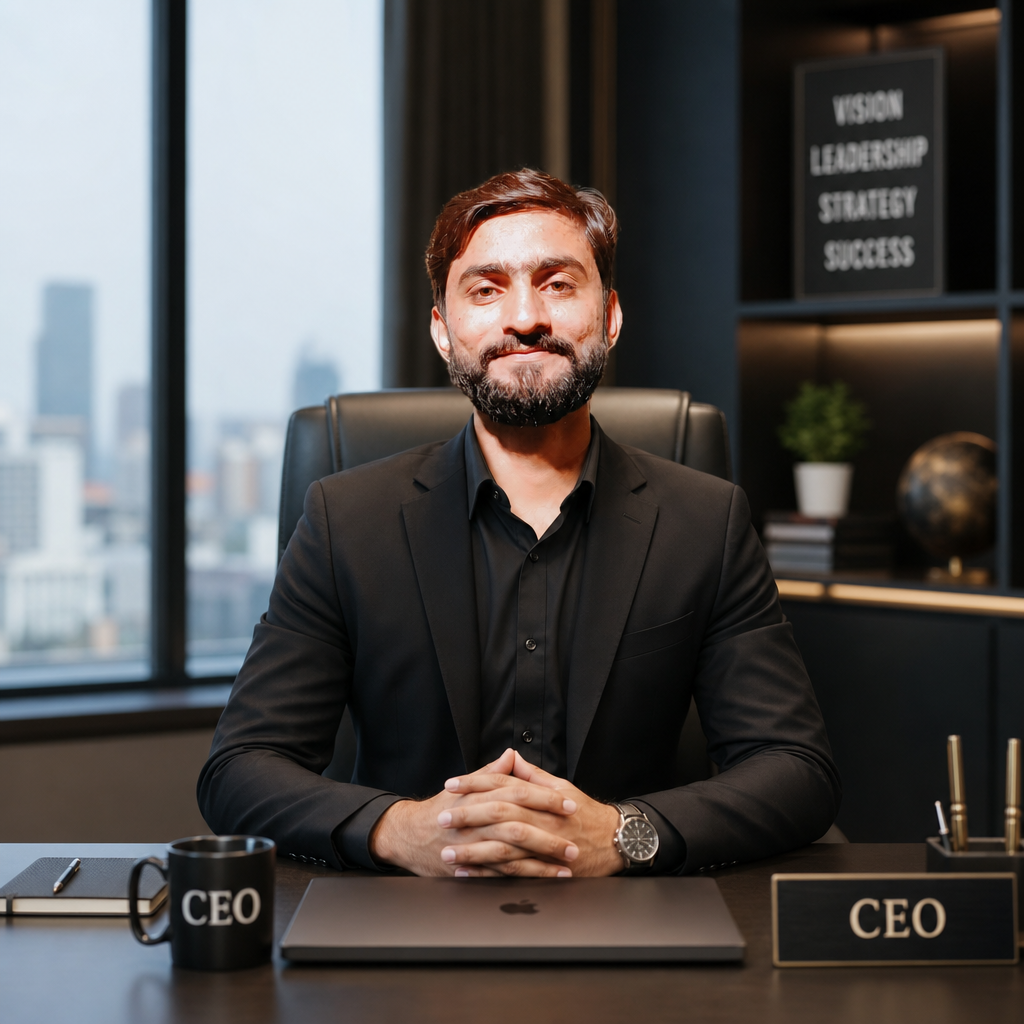
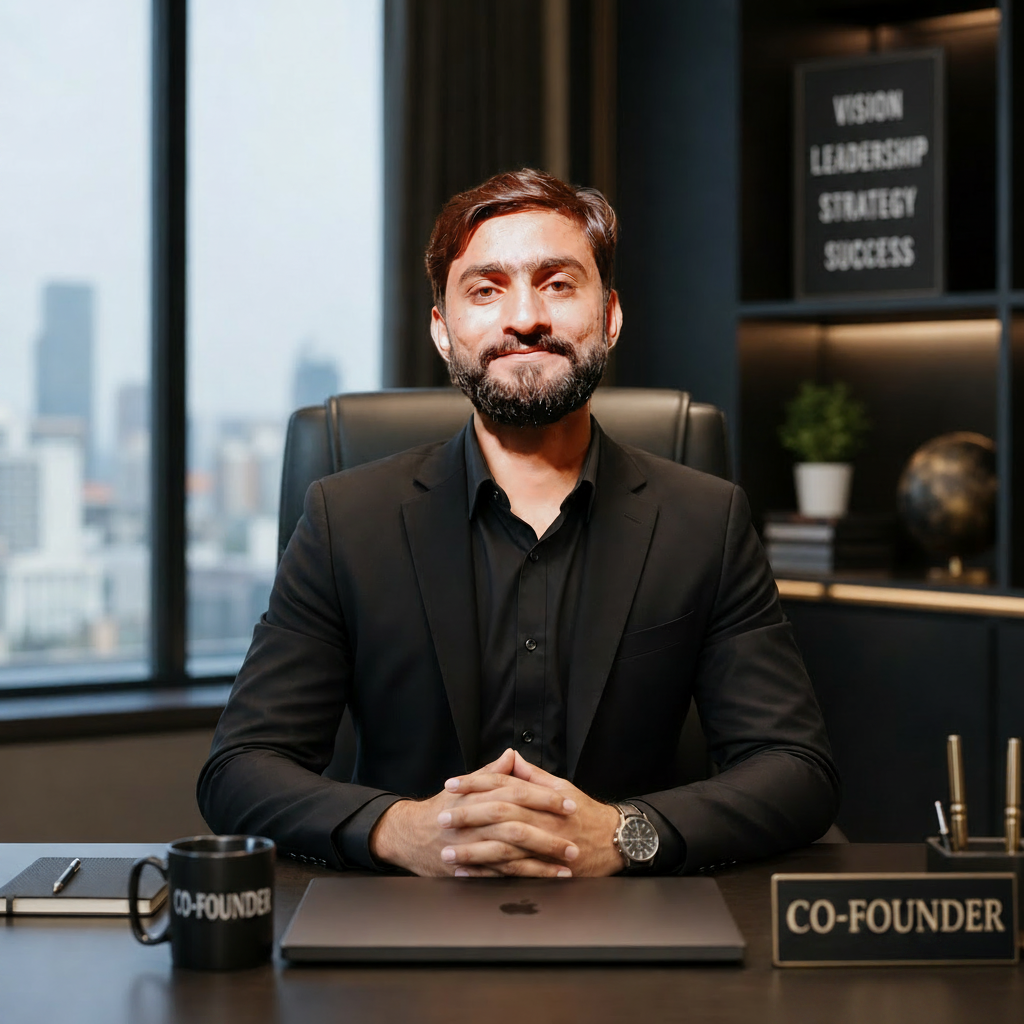
Update team photos and add cache-busting to team images
Add a ?v= query string to the team section photos so browsers fetch
the new files instead of serving a stale 7-day cached copy under the
same filename.

diff --git a/about.html b/about.html
@@ -453,17 +453,17 @@ body{background:transparent;}
     </div>
     <div class="team-grid">
       <div class="team-card reveal">
-        <div class="team-photo"><img src="assets/images/founder-street.png" alt="Muhammad Aqeel Akram, Founder &amp; CEO"></div>
+        <div class="team-photo"><img src="assets/images/founder-street.png?v=20260721" alt="Muhammad Aqeel Akram, Founder &amp; CEO"></div>
         <h5>Muhammad Aqeel Akram</h5>
         <span>Founder &amp; CEO</span>
       </div>
       <div class="team-card reveal">
-        <div class="team-photo"><img src="assets/images/founder2.png" alt="Muhammad Zubair Akram, Co-Founder"></div>
+        <div class="team-photo"><img src="assets/images/founder2.png?v=20260721" alt="Muhammad Zubair Akram, Co-Founder"></div>
         <h5>Muhammad Zubair Akram</h5>
         <span>Co-Founder</span>
       </div>
       <div class="team-card reveal">
-        <div class="team-photo"><img src="assets/images/founder3.png" alt="Asad Irshad, Co-Founder"></div>
+        <div class="team-photo"><img src="assets/images/founder3.png?v=20260721" alt="Asad Irshad, Co-Founder"></div>
         <h5>Asad Irshad</h5>
         <span>Co-Founder</span>
       </div>